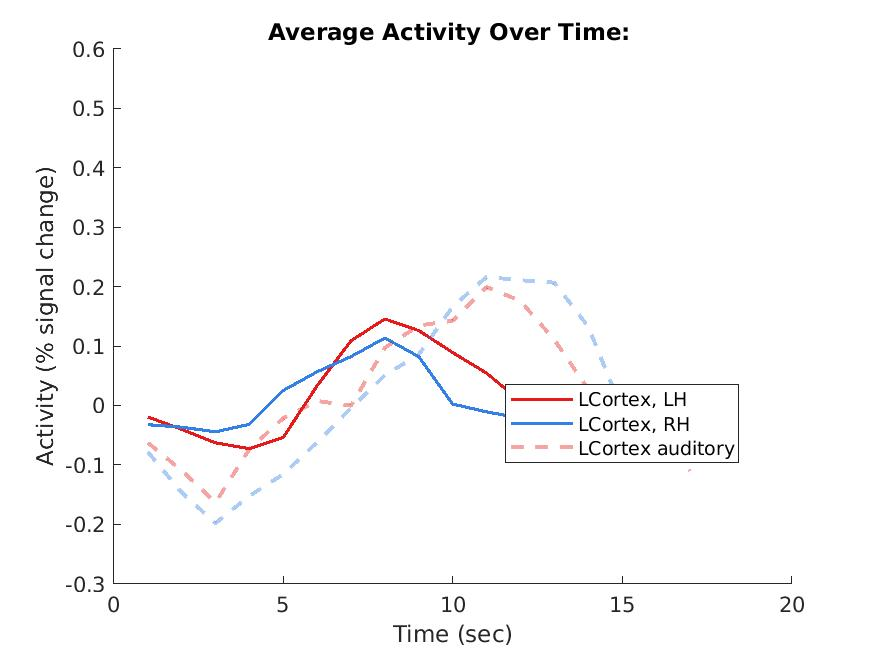
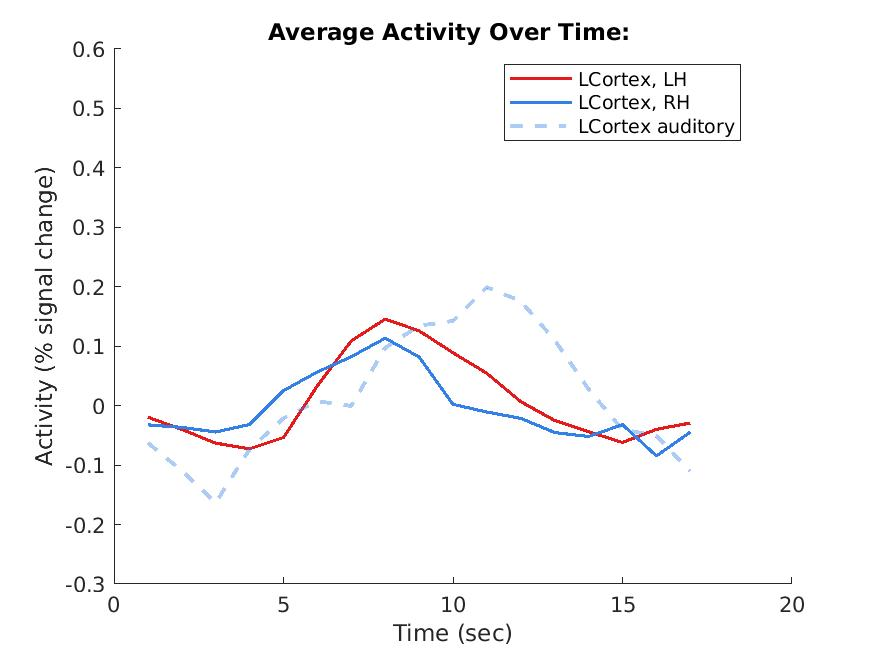
update figres dir (auto)

diff --git a/plotTimeCourseOnePlotMotor.m b/plotTimeCourseOnePlotMotor.m
@@ -30,7 +30,7 @@ function plotTimeCourseOnePlot()
         hold on
         plot(LCortex_LH_data, 'LineWidth', 1.5, 'Color', [0.9 0.1 0.1]);
         plot(LCortex_RH_data, 'LineWidth', 1.5, 'Color', [0.2 0.5 0.9]);
-        plot(LE_LCortex_data, "--", 'LineWidth', 1.9, 'Color', [0.9 0.1 0.1 0.4]);
+        % plot(LE_LCortex_data, "--", 'LineWidth', 1.9, 'Color', [0.9 0.1 0.1 0.4]);
         plot(RE_LCortex_data, "--", 'LineWidth', 1.9, 'Color', [0.2 0.5 0.9 0.4]);
 
         % Adding Title, Labels, and Legend
@@ -57,8 +57,8 @@ function plotTimeCourseOnePlot()
         hold on
         plot(RCortex_LH_data,  'LineWidth', 1.5, 'Color', [0.9 0.1 0.1]);
         plot(RCortex_RH_data,  'LineWidth', 1.5, 'Color', [0.2 0.5 0.9]);
-        plot(LE_RCortex_data, "--", 'LineWidth', 1.9, 'Color', [0.9 0.1 0.1, 0.4]);
-        plot(RE_RCortex_data, "--", 'LineWidth', 1.9, 'Color', [0.2 0.5 0.9 0.4]);
+        plot(LE_RCortex_data, "--", 'LineWidth', 1.9, 'Color', [0.2 0.5 0.9 0.4]);
+        % plot(RE_RCortex_data, "--", 'LineWidth', 1.9, 'Color', [0.2 0.5 0.9 0.4]);
 
         % Adding Title, Labels, and Legend
         titleStr = sprintf("Average Activity Over Time: %s, RCortex");
